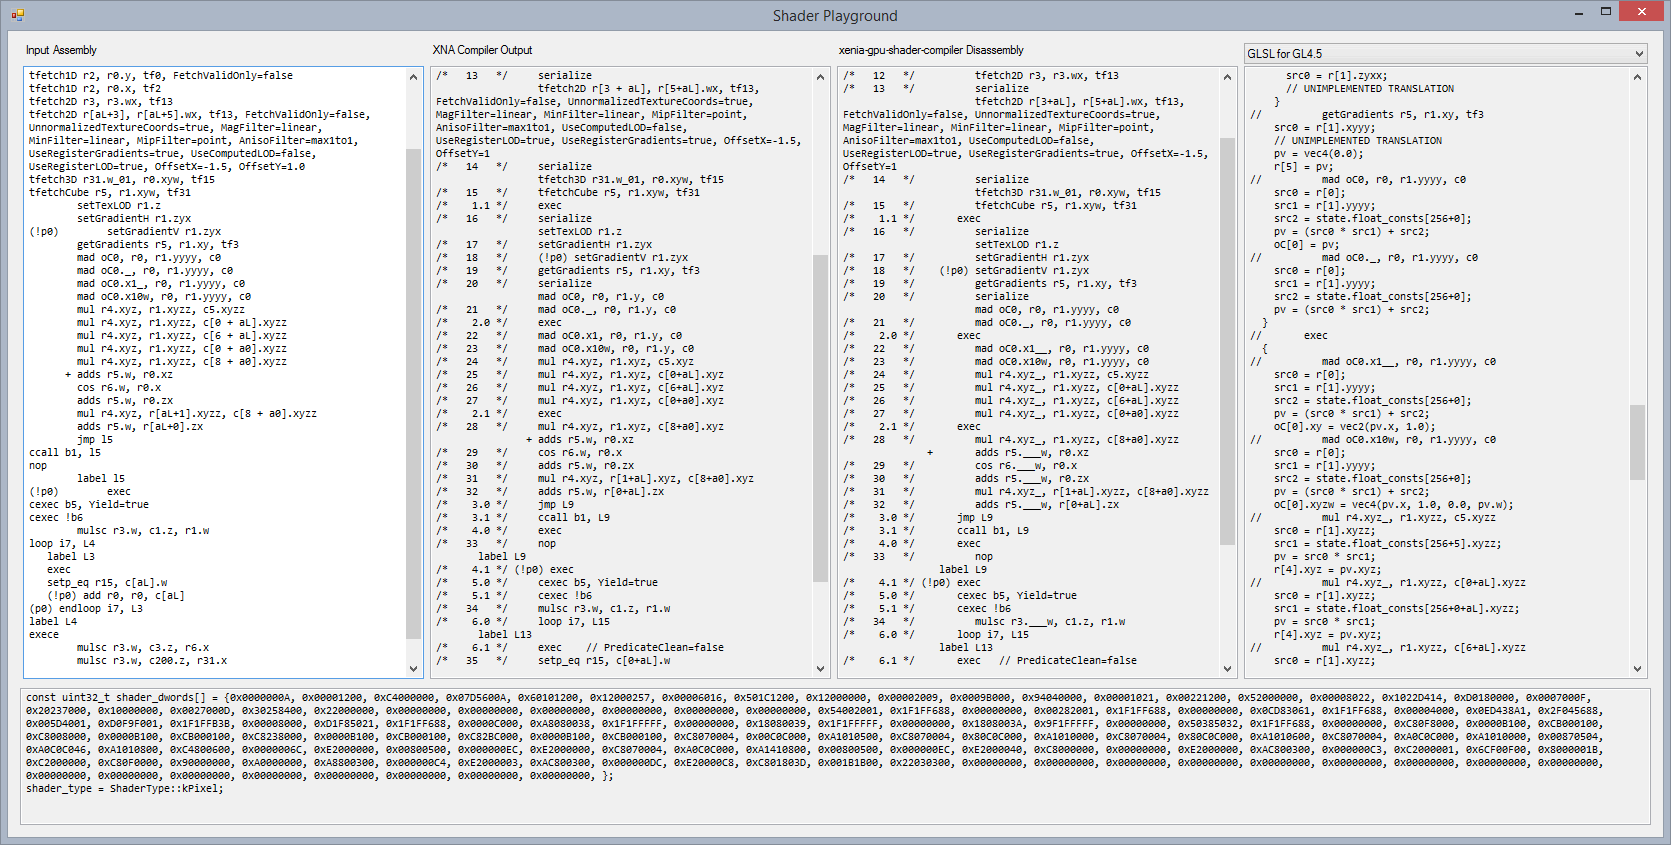
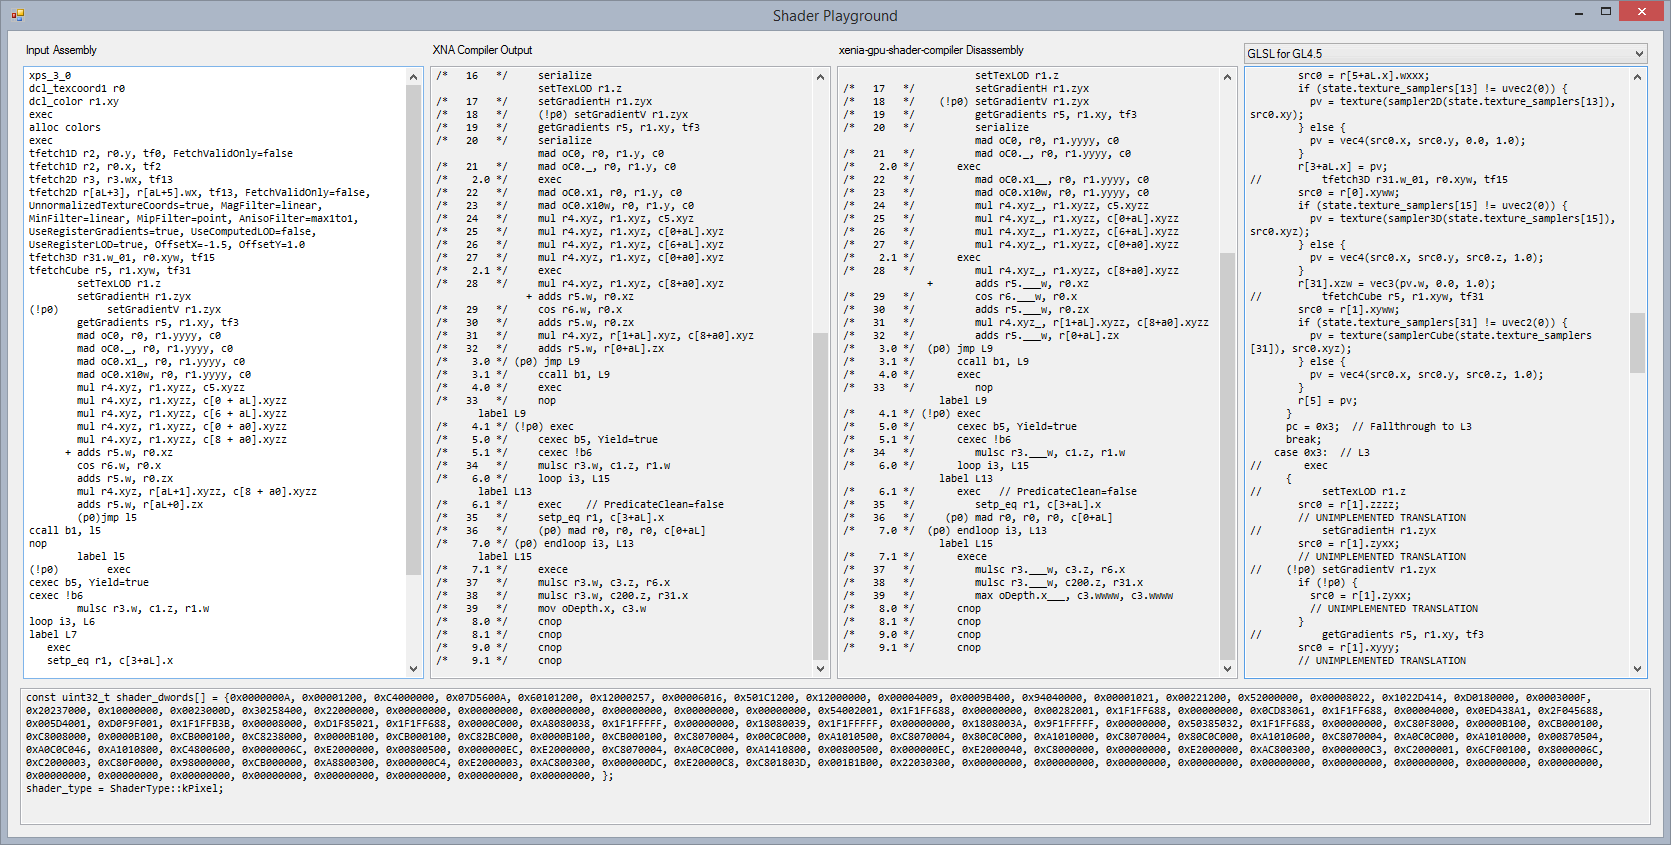
Loops in shaders (no TDRs! woo!).

diff --git a/src/xenia/gpu/glsl_shader_translator.cc b/src/xenia/gpu/glsl_shader_translator.cc
@@ -291,8 +291,11 @@ void main() {
   EmitSource("  bool p0 = false;\n");
   // Address register when using absolute addressing.
   EmitSource("  int a0 = 0;\n");
-  // TODO(benvanik): remove when loops are implemented.
-  EmitSource("  int aL = 0;\n");  // Hack!
+  // Loop index stack - .x is the active loop, shifted right to yzw on push.
+  EmitSource("  ivec4 aL = ivec4(0);\n");
+  // Loop counter stack, .x is the active loop.
+  // Represents number of times remaining to loop.
+  EmitSource("  ivec4 loop_count = ivec4(0);\n");
   // Temps for source register values.
   EmitSource("  vec4 src0;\n");
   EmitSource("  vec4 src1;\n");
@@ -378,7 +381,32 @@ void GlslShaderTranslator::ProcessLoopStartInstruction(
   EmitSource("// ");
   instr.Disassemble(&source_);
 
-  EmitUnimplementedTranslationError();
+  // Setup counter.
+  EmitSourceDepth(
+      "loop_count = ivec4(state.loop_consts[%u].x & 0xFF, "
+      "loop_count.x, loop_count.y, loop_count.z);\n",
+      instr.loop_constant_index);
+
+  // Setup relative indexing.
+  if (instr.is_repeat) {
+    // Reuse the current loop index.
+    EmitSourceDepth("aL = ivec4(aL.x, aL.x, aL.y, aL.z);\n");
+  } else {
+    // Push new loop starting index.
+    EmitSourceDepth(
+        "aL = ivec4((state.loop_consts[%u] >> 8) & 0xFF, aL.x, aL.y, aL.z);\n",
+        instr.loop_constant_index);
+  }
+
+  // Quick skip loop if zero count.
+  EmitSourceDepth("if (loop_count.x == 0) {\n");
+  EmitSourceDepth("  pc = 0x%X;  // Skip loop to L%d\n",
+                  instr.loop_skip_address, instr.loop_skip_address);
+  EmitSourceDepth("} else {\n");
+  EmitSourceDepth("  pc = 0x%X;  // Fallthrough to loop body L%d\n",
+                  instr.dword_index + 1, instr.dword_index + 1);
+  EmitSourceDepth("}\n");
+  cf_wrote_pc_ = true;
 }
 
 void GlslShaderTranslator::ProcessLoopEndInstruction(
@@ -386,7 +414,38 @@ void GlslShaderTranslator::ProcessLoopEndInstruction(
   EmitSource("// ");
   instr.Disassemble(&source_);
 
-  EmitUnimplementedTranslationError();
+  // Decrement loop counter, and if we are done break out.
+  EmitSourceDepth("if (--loop_count.x == 0");
+  if (instr.is_predicated_break) {
+    // If the predicate condition is met we 'break;' out of the loop.
+    // Need to restore stack and fall through to the next cf.
+    EmitSource(" || %cp0) {\n", instr.predicate_condition ? ' ' : '!');
+  } else {
+    EmitSource(") {\n");
+  }
+  Indent();
+
+  // Loop completed - pop and fall through to next cf.
+  EmitSourceDepth(
+      "loop_count = ivec4(loop_count.y, loop_count.z, loop_count.w, 0);\n");
+  EmitSourceDepth("aL = ivec4(aL.y, aL.z, aL.w, 0);\n");
+  uint32_t next_address = instr.dword_index + 1;
+  EmitSourceDepth("pc = 0x%X;  // Exit loop to L%d\n", instr.dword_index + 1,
+                  instr.dword_index + 1);
+
+  Unindent();
+  EmitSourceDepth("} else {\n");
+  Indent();
+
+  // Still looping. Adjust index and jump back to body.
+  EmitSourceDepth("aL.x += (state.loop_consts[%u] << 8) >> 24;\n",
+                  instr.loop_constant_index);
+  EmitSourceDepth("pc = 0x%X;  // Loop back to body L%d\n",
+                  instr.loop_body_address, instr.loop_body_address);
+
+  Unindent();
+  EmitSourceDepth("}\n");
+  cf_wrote_pc_ = true;
 }
 
 void GlslShaderTranslator::ProcessCallInstruction(
@@ -657,9 +716,9 @@ void GlslShaderTranslator::EmitLoadOperand(size_t i,
       break;
     case InstructionStorageAddressingMode::kAddressRelative:
       if (storage_index_offset) {
-        EmitSource("[%d+%d+aL]", storage_index_offset, op.storage_index);
+        EmitSource("[%d+%d+aL.x]", storage_index_offset, op.storage_index);
       } else {
-        EmitSource("[%d+aL]", op.storage_index);
+        EmitSource("[%d+aL.x]", op.storage_index);
       }
       break;
   }
@@ -736,7 +795,7 @@ void GlslShaderTranslator::EmitStoreResult(const InstructionResult& result,
         EmitSource("[%d+a0]", result.storage_index);
         break;
       case InstructionStorageAddressingMode::kAddressRelative:
-        EmitSource("[%d+aL]", result.storage_index);
+        EmitSource("[%d+aL.x]", result.storage_index);
         break;
     }
   }
